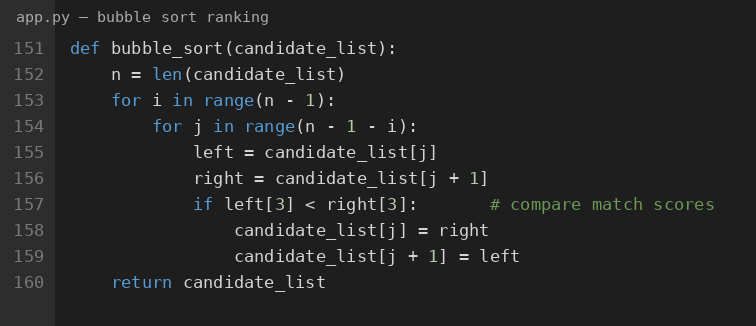
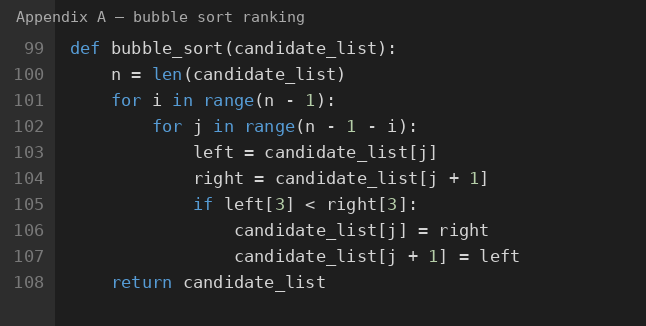
Align Criterion D line refs and screenshots with clean Appendix A.
Point all Criterion D excerpts at APPENDIX_SOURCE_CODE.txt line numbers,
regenerate code screenshots from that comment-free file, and drop inline
teaching comments from the linear search and bubble sort images.

diff --git a/docs/criteria_d/make_code_screenshots.py b/docs/criteria_d/make_code_screenshots.py
@@ -1,9 +1,14 @@
 #!/usr/bin/env python3
-"""Render short code excerpts as dark IDE-style PNG screenshots for Criterion D."""
+"""Render short code excerpts as dark IDE-style PNG screenshots for Criterion D.
+
+Excerpts and line numbers match APPENDIX_SOURCE_CODE.txt (comment-free Appendix A).
+"""
 
 from pathlib import Path
 from PIL import Image, ImageDraw, ImageFont
 
+ROOT = Path(__file__).resolve().parents[2]
+APPENDIX = ROOT / "APPENDIX_SOURCE_CODE.txt"
 OUT = Path(__file__).resolve().parent / "screenshots"
 OUT.mkdir(parents=True, exist_ok=True)
 
@@ -13,7 +18,6 @@ LINE_NUM = (120, 120, 120)
 DEFAULT = (212, 212, 212)
 KEYWORD = (86, 156, 214)
 STRING = (206, 145, 120)
-COMMENT = (106, 153, 85)
 FUNC = (220, 220, 170)
 NUMBER = (181, 206, 168)
 
@@ -35,15 +39,37 @@ def get_font(size=18):
     return ImageFont.load_default()
 
 
+def has_python_comment(text):
+    """True if # starts a comment outside string quotes."""
+    in_single = False
+    in_double = False
+    for ch in text:
+        if ch == "'" and not in_double:
+            in_single = not in_single
+        elif ch == '"' and not in_single:
+            in_double = not in_double
+        elif ch == "#" and not in_single and not in_double:
+            return True
+    return False
+
+
+def appendix_lines(start, end):
+    """Return (line_number, text) pairs from APPENDIX_SOURCE_CODE.txt inclusive."""
+    all_lines = APPENDIX.read_text(encoding="utf-8").splitlines()
+    pairs = []
+    for num in range(start, end + 1):
+        text = all_lines[num - 1]
+        if has_python_comment(text):
+            raise ValueError(f"Comment in appendix line {num}: {text}")
+        pairs.append((num, text))
+    return pairs
+
+
 def tokenize_line(line):
-    """Very small highlighter good enough for Python excerpts."""
     tokens = []
     i = 0
     while i < len(line):
         ch = line[i]
-        if ch == "#":
-            tokens.append((line[i:], COMMENT))
-            break
         if ch in "\"'":
             quote = ch
             j = i + 1
@@ -66,7 +92,6 @@ def tokenize_line(line):
                 j += 1
             word = line[i:j]
             color = KEYWORD if word in KEYWORDS else DEFAULT
-            # Function name after def
             if tokens and tokens[-1][0].rstrip().endswith("def"):
                 color = FUNC
             tokens.append((word, color))
@@ -77,16 +102,18 @@ def tokenize_line(line):
     return tokens
 
 
-def render_snippet(filename, title, lines, start_line=1):
+def render_snippet(filename, title, pairs):
+    """pairs: list of (line_number, text). Empty text with line_number None = blank gap."""
     font = get_font(17)
     bold = get_font(15)
     pad_x = 16
     pad_y = 14
     line_h = 26
     gutter_w = 54
-    max_chars = max(len(line) for line in lines)
+    visible = [text for _, text in pairs]
+    max_chars = max((len(line) for line in visible), default=40)
     width = gutter_w + pad_x * 2 + max(560, max_chars * 10 + 40)
-    height = pad_y * 2 + 28 + line_h * len(lines) + 10
+    height = pad_y * 2 + 28 + line_h * len(pairs) + 10
 
     img = Image.new("RGB", (width, height), BG)
     draw = ImageDraw.Draw(img)
@@ -94,9 +121,15 @@ def render_snippet(filename, title, lines, start_line=1):
     draw.text((pad_x, 8), title, fill=(170, 170, 170), font=bold)
 
     y = pad_y + 24
-    for idx, line in enumerate(lines):
-        num = str(start_line + idx)
-        draw.text((gutter_w - 10 - draw.textlength(num, font=font), y), num, fill=LINE_NUM, font=font)
+    for num, line in pairs:
+        if num is not None:
+            num_s = str(num)
+            draw.text(
+                (gutter_w - 10 - draw.textlength(num_s, font=font), y),
+                num_s,
+                fill=LINE_NUM,
+                font=font,
+            )
         x = gutter_w + pad_x
         for text, color in tokenize_line(line):
             draw.text((x, y), text, fill=color, font=font)
@@ -108,109 +141,46 @@ def render_snippet(filename, title, lines, start_line=1):
     print("wrote", path)
 
 
-# 1. Password hashing / login
+# 1. Password hashing / login — appendix lines 39–40 and 134–138
 render_snippet(
     "code_01_login_hash.png",
-    "app.py — login / password hashing",
-    [
-        "password_hash = generate_password_hash(\"hr12345\")",
-        "db.execute(\"INSERT INTO User (email, password_hash) VALUES (?, ?)\",",
-        "           (\"hr@gmail.com\", password_hash))",
-        "",
-        "if user is None or not check_password_hash(user[\"password_hash\"], password):",
-        "    flash(\"Invalid email or password.\")",
-        "    return render_template(\"login.html\")",
-        "session[\"user_id\"] = user[\"user_id\"]",
-    ],
-    start_line=66,
+    "Appendix A — login / password hashing",
+    appendix_lines(39, 40) + [(None, "")] + appendix_lines(134, 138),
 )
 
-# 2. File upload reading / validation
+# 2. File upload reading / validation — appendix lines 190–205
 render_snippet(
     "code_02_file_upload.png",
-    "app.py — file upload and validation",
-    [
-        "files = request.files.getlist(\"files\")",
-        "if len(files) == 0 or files[0].filename == \"\":",
-        "    flash(\"No file selected.\")",
-        "    return redirect(url_for(\"dashboard\"))",
-        "for file in files:",
-        "    if not file.filename.lower().endswith(\".txt\"):",
-        "        flash(\"File \" + file.filename + \" was rejected: only .txt files are allowed.\")",
-        "        continue",
-        "    resume_text = file.read().decode(\"utf-8\", \"ignore\")",
-        "    name = resume_text.strip().split(\"\\n\")[0].strip()",
-    ],
-    start_line=267,
+    "Appendix A — file upload and validation",
+    appendix_lines(190, 205),
 )
 
-# 3. Linear search scoring
+# 3. Linear search scoring — appendix lines 90–97
 render_snippet(
     "code_03_linear_search.png",
-    "app.py — linear search scoring",
-    [
-        "def get_score(resume_text, keyword_list):",
-        "    words = clean_words(resume_text)",
-        "    score = 0",
-        "    for word in words:                    # outer loop: every resume word",
-        "        for keyword in keyword_list:      # inner loop: every keyword",
-        "            if word == keyword.lower().strip():",
-        "                score = score + 1         # match found → +1",
-        "    return score",
-    ],
-    start_line=138,
+    "Appendix A — linear search scoring",
+    appendix_lines(90, 97),
 )
 
-# 4. Bubble sort
+# 4. Bubble sort — appendix lines 99–108
 render_snippet(
     "code_04_bubble_sort.png",
-    "app.py — bubble sort ranking",
-    [
-        "def bubble_sort(candidate_list):",
-        "    n = len(candidate_list)",
-        "    for i in range(n - 1):",
-        "        for j in range(n - 1 - i):",
-        "            left = candidate_list[j]",
-        "            right = candidate_list[j + 1]",
-        "            if left[3] < right[3]:       # compare match scores",
-        "                candidate_list[j] = right",
-        "                candidate_list[j + 1] = left",
-        "    return candidate_list",
-    ],
-    start_line=151,
+    "Appendix A — bubble sort ranking",
+    appendix_lines(99, 108),
 )
 
-# 5. SQLite parameterised query / CRUD
+# 5. SQLite parameterised query — appendix lines 309–314
 render_snippet(
     "code_05_sqlite.png",
-    "app.py — SQLite parameterised query",
-    [
-        "db.execute(\"DELETE FROM Match WHERE job_id = ?\", (job[\"job_id\"],))",
-        "for candidate in candidates:",
-        "    score = get_score(candidate[\"resume_text\"], keyword_list)",
-        "    db.execute(",
-        "        \"INSERT INTO Match (cand_id, job_id, match_score) VALUES (?, ?, ?)\",",
-        "        (candidate[\"cand_id\"], job[\"job_id\"], score))",
-        "db.commit()",
-    ],
-    start_line=402,
+    "Appendix A — SQLite parameterised query",
+    appendix_lines(309, 314),
 )
 
-# 6. Error handling invalid data
+# 6. Error handling invalid data — appendix lines 126–128 and 303–306
 render_snippet(
     "code_06_error_handling.png",
-    "app.py — error handling for invalid data",
-    [
-        "if email == \"\" or password == \"\":",
-        "    flash(\"Please enter both email and password.\")",
-        "    return render_template(\"login.html\")",
-        "",
-        "if len(candidates) == 0:",
-        "    flash(\"No candidates to process. Upload some .txt files first.\")",
-        "elif len(keyword_list) == 0:",
-        "    flash(\"No keywords to match. Add at least one keyword first.\")",
-    ],
-    start_line=189,
+    "Appendix A — error handling for invalid data",
+    appendix_lines(126, 128) + [(None, "")] + appendix_lines(303, 306),
 )
 
 print("done")

diff --git a/docs/CRITERIA_D.md b/docs/CRITERIA_D.md
@@ -1,6 +1,6 @@
 # Criterion D – Development
 
-This section shows the main techniques used to build the Candidate Matcher. For each technique I include a short annotated code excerpt, explain what it does, justify why I chose it, and link it to the success criteria. Full source code is in **Appendix A: `app.py`**.
+This section shows the main techniques used to build the Candidate Matcher. For each technique I include a short code excerpt, explain what it does, justify why I chose it, and link it to the success criteria. Full source code is in **Appendix A** (`APPENDIX_SOURCE_CODE.txt`). Line numbers below match that file. The appendix is comment-free.
 
 ---
 
@@ -8,7 +8,7 @@ This section shows the main techniques used to build the Candidate Matcher. For 
 
 ![Login / password hashing code excerpt](criteria_d/screenshots/code_01_login_hash.png)
 
-*See Appendix A: `app.py`, lines 66–68 and 197–201.*
+*See Appendix A, lines 39–40 and 134–138.*
 
 The first technique hashes the HR password before it is stored in SQLite, and checks it again at login. `generate_password_hash()` turns `"hr12345"` into a long scrambled string, so the real password is never saved as plain text. At login, `check_password_hash()` compares the typed password with the stored hash. If the email is missing or the password is wrong, an error is shown and the user stays on the login page. If the match is successful, `session["user_id"]` remembers who is logged in.
 
@@ -20,7 +20,7 @@ I chose password hashing instead of storing the password in plain text because l
 
 ![File upload validation code excerpt](criteria_d/screenshots/code_02_file_upload.png)
 
-*See Appendix A: `app.py`, lines 267–282.*
+*See Appendix A, lines 190–205.*
 
 This excerpt shows how LinkedIn text enters the system. `request.files.getlist("files")` receives one or many files in one submission. The code checks that a file was selected, then that each name ends with `.txt`. Invalid types are rejected with a flash message and are not stored. For a valid file, `.read()` loads the text and the candidate name is taken from the first line.
 
@@ -34,7 +34,7 @@ A limitation is that only the extension is checked, not the real content type, b
 
 ![Linear search scoring code excerpt](criteria_d/screenshots/code_03_linear_search.png)
 
-*See Appendix A: `app.py`, lines 138–145.*
+*See Appendix A, lines 90–97.*
 
 `get_score()` is the matching algorithm from Flowchart_5. First `clean_words()` turns the resume into lower-case words and removes punctuation, so `"Python,"` and `"python"` match. Then a nested loop compares every resume word with every keyword. Each equal pair adds 1 to the score. The final score is stored in the Match table and shown next to the candidate name.
 
@@ -48,7 +48,7 @@ Scoring was tested with different keyword hit counts, including a zero-score can
 
 ![Bubble sort ranking code excerpt](criteria_d/screenshots/code_04_bubble_sort.png)
 
-*See Appendix A: `app.py`, lines 151–160.*
+*See Appendix A, lines 99–108.*
 
 After scoring, `bubble_sort()` ranks candidates. Nested loops compare neighbours and swap them if the left score (`left[3]`) is lower than the right score, so the list ends highest to lowest. The dashboard shows this list and highlights the first three rows in green with the `top-three` CSS class.
 
@@ -64,7 +64,7 @@ I chose bubble sort because the list is small (about 10–50 people), so O(n²) 
 
 ![SQLite parameterised query code excerpt](criteria_d/screenshots/code_05_sqlite.png)
 
-*See Appendix A: `app.py`, lines 402–408.*
+*See Appendix A, lines 309–314.*
 
 When Process is clicked, old Match rows for the job are deleted, then each score is inserted with a parameterised SQL statement. The `?` placeholders are filled with `cand_id`, `job_id` and `match_score`. `db.commit()` saves the changes so scores remain after the browser is closed.
 
@@ -76,7 +76,7 @@ I chose SQLite with `?` parameters instead of building SQL with `+` because para
 
 ![Error handling code excerpt](criteria_d/screenshots/code_06_error_handling.png)
 
-*See Appendix A: `app.py`, lines 189–191 and 397–399.*
+*See Appendix A, lines 126–128 and 303–306.*
 
 Error handling is used across login, upload, keywords and Process. Empty fields, wrong passwords, non-`.txt` files, empty or duplicate keywords, and Process with missing data all show a flash message instead of crashing. File reading is also in `try/except` so a broken file does not stop the whole upload loop.
 
@@ -125,10 +125,10 @@ The strategy covers normal, abnormal and extreme data. One limitation is that bu
 
 ## AI (LLM) acknowledgment
 
-An AI coding assistant (LLM) helped with Flask setup, debugging some upload/validation edge cases, and drafting notes for this Criterion D write-up. The main algorithm choices (linear search and bubble sort), the SQLite design, and the final code comments were reviewed and decided by me. The same acknowledgment is in a comment at the top of `app.py` (Appendix A, lines 11–14).
+An AI coding assistant (LLM) helped with Flask setup, debugging some upload/validation edge cases, and drafting notes for this Criterion D write-up. The main algorithm choices (linear search and bubble sort), the SQLite design, and the final wording were reviewed and decided by me. The same acknowledgment is in a short note at the top of the development file `app.py`. Appendix A itself is comment-free code only.
 
 ---
 
 ## Appendix reference
 
-All excerpts refer to **Appendix A: `app.py`**. Screenshots used above are in `docs/criteria_d/screenshots/`.
+All excerpts refer to **Appendix A** (`APPENDIX_SOURCE_CODE.txt`). Screenshots used above are in `docs/criteria_d/screenshots/` and show the same comment-free lines.
